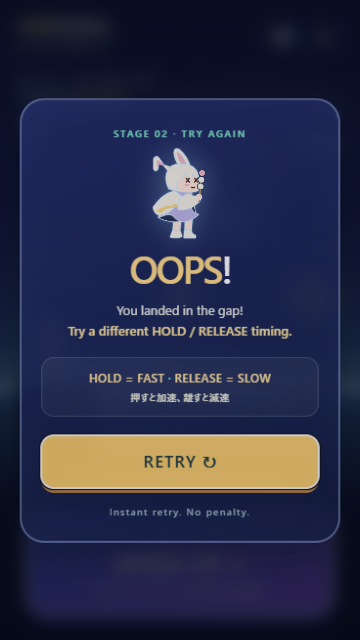
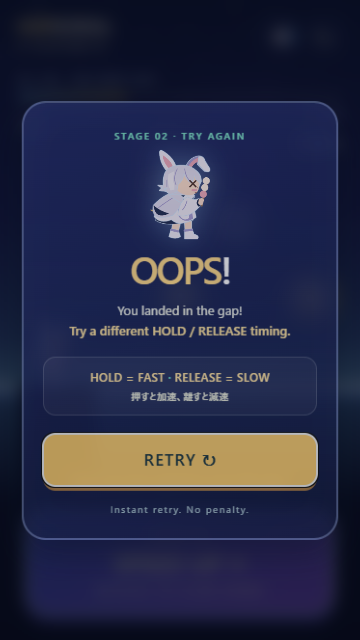
feat: redraw Michiru canvas as moon-rabbit girl

diff --git a/docs/MICHIRU_QA.md b/docs/MICHIRU_QA.md
@@ -7,7 +7,22 @@
 
 ## 確認結果
 
-2026-10-31: `node --test tests/core.test.mjs tests/star-run.test.mjs`、`python scripts/build.py`、`node tests/ui-smoke.mjs`、`node tests/michiru-captures.mjs` 成功。Chrome、playwright-core 1.56.1。360×640、720×1280、320×700の入力・表示、クリア・失敗・再挑戦確認。48px表示を目視し、二足の人物、片耳の折れ、袖、串の3点を確認。細かな表情は結果カードの方が明瞭。実機・人間の試遊は未実施。
+2026-10-31 再描画（fe97dbeへのレビュー対応）:
+
+- 参考シートを画像として開いてから制作。丸い白頭を廃止し、毛先・前髪・横髪のある薄藤のボブ、肌色の頬と顎、横顔の大きな焦げ茶の瞳へ変更。鼻・口は小さな線で、マズルなし。
+- 立ち耳と、山形に立ち上がって先が垂れる左耳を別パスにし、陰影で分離。白2個・桃1個の団子、紺の袖口、金帯、ブーツを維持。
+- flowで上体を前傾、後ろ脚を蹴り出し、袖・髪・帯・耳を後方へ流す。FASTの団子は胸元へ下げ、目への重なりを修正。happyは閉じ目と歯なしの小さな笑顔、dizzyは×目。
+- 指定の `node --test tests/core.test.mjs tests/star-run.test.mjs`、`python scripts/build.py`、`node tests/ui-smoke.mjs`、`node tests/michiru-captures.mjs` はすべて成功。描画の最終調整後にbuild/UI smoke/capturesを再実行。Chrome / playwright-core、3画面サイズ、入力・クリア・失敗・再挑戦、ページ例外なし。
+- 全スクリーンショットを再撮影し画像として開いて目視。ゲーム画面、カード、48px標本で髪に囲まれた人の横顔として判読できると判断。片耳だけの折れ、SLOWの縦長／FASTの前傾した横方向の広がりも確認。48pxの鼻・口や指の細部は読みにくい。これは制作側の目視判断であり、人間の受入試遊・実機評価は未実施。
+- `compare-sheet-vs-canvas.png` は上に参考シート、下にCanvasの横顔／SLOW／FAST／着地相当／happyの5標本。撮影スクリプトで再現可能。着地相当は既存のsquashを模した変形で、独立した新ポーズAPIではない。
+
+### 参考シートとの残差
+
+Canvasは小サイズ向けの平面的な省略画で、参考の細かい毛束・立体的な布・柔らかい陰影までは一致しない。SLOWは横顔ベースで参考3番目の膝を上げた3/4向き、着地は参考5番目の深いしゃがみを完全再現していない。既存引数と呼び出し側を維持する制約を優先し、着地は既存squashを使用。FASTの折れ耳は折れの識別を優先し、先端が完全な水平にはならない。
+
+### 今回の文書差分の扱い
+
+正本の「見た目：固有の4要素」2は瞳を二点、同4は小サイズの団子を白3点としているが、今回は明示依頼の横顔・大きい瞳・白2桃1を優先。左耳の「先だけ少し曲がる」も今回の明確な折れ指定を優先した。旧QAの「48pxで確認済み」はユーザーレビューで不十分と判明したため、上記の再描画後の評価に更新した。以下の旧担当区分・コース・物語の既知の差異は再決定せず保持。
 
 ビルドは既存の未同梱BGMについてmissing通知あり。音源は追加していない。物理、コース、PERIOD、HERO_X、FLOOR、RABBIT_SCALEは変更なし。
 
